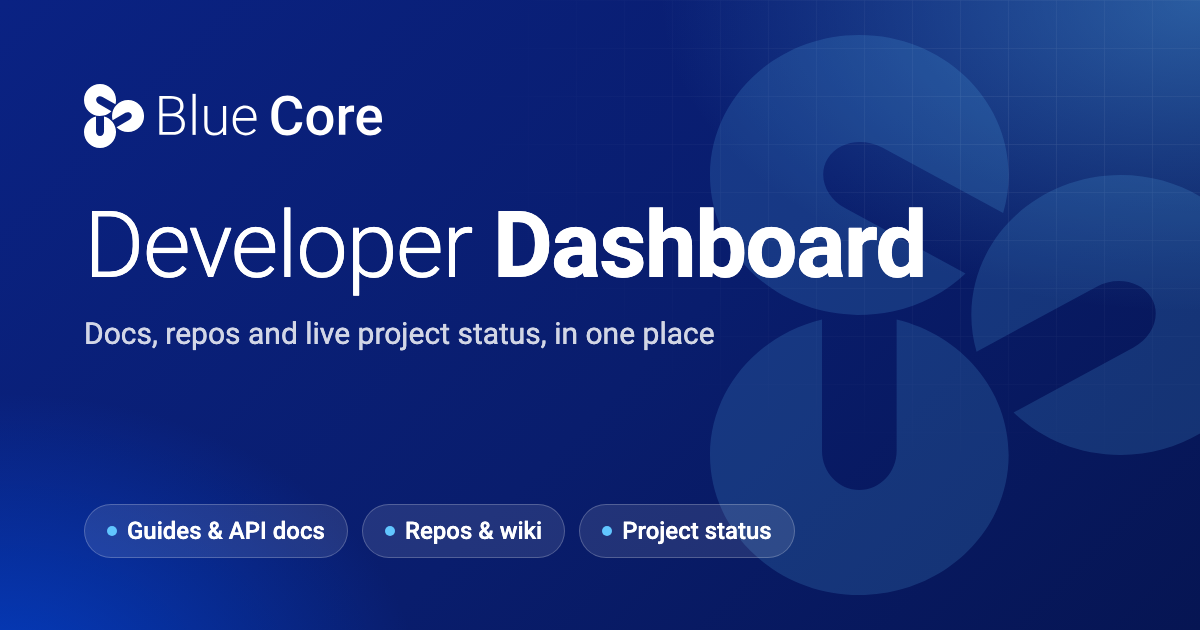
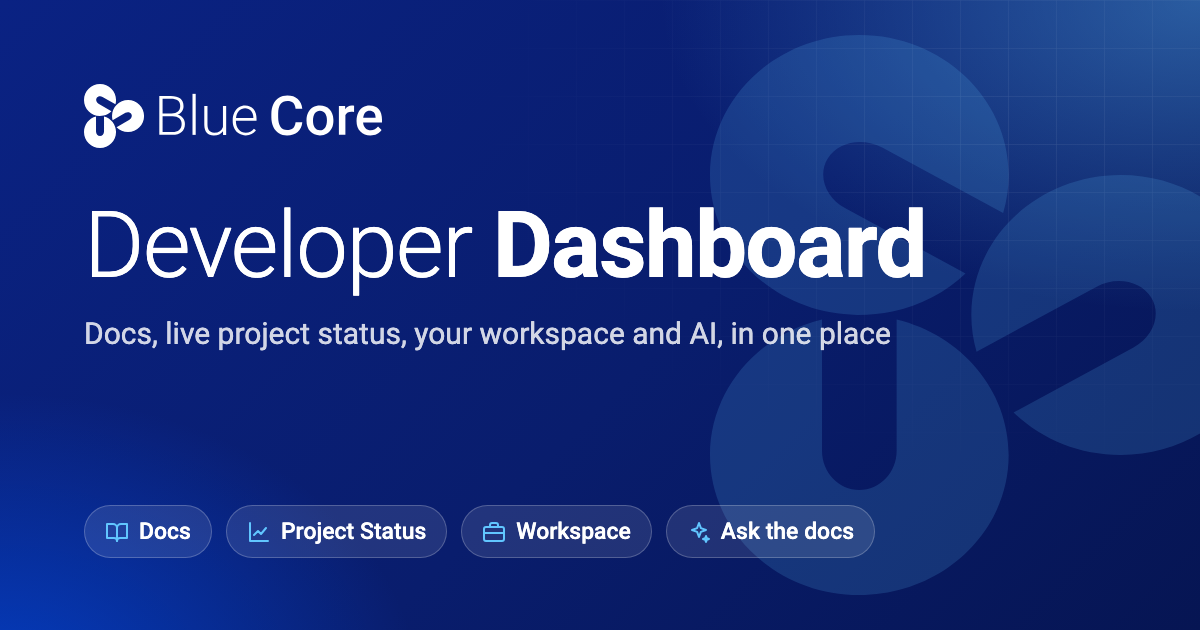
updated card image

Changed region(s): [[0.0925, 0.7841, 0.7092, 0.9048], [0.1233, 0.5127, 0.74, 0.573]]

diff --git a/docusaurus.config.js b/docusaurus.config.js
@@ -273,7 +273,7 @@ const config = {
       metadata: [
         {property: 'og:image:width', content: '1200'},
         {property: 'og:image:height', content: '630'},
-        {property: 'og:image:alt', content: 'Blue Core Developer Dashboard: docs, repos and live project status in one place'},
+        {property: 'og:image:alt', content: 'Blue Core Developer Dashboard: docs, live project status, your workspace and AI, in one place'},
         {property: 'og:site_name', content: 'Blue Core Developer Dashboard'},
       ],
       colorMode: {
